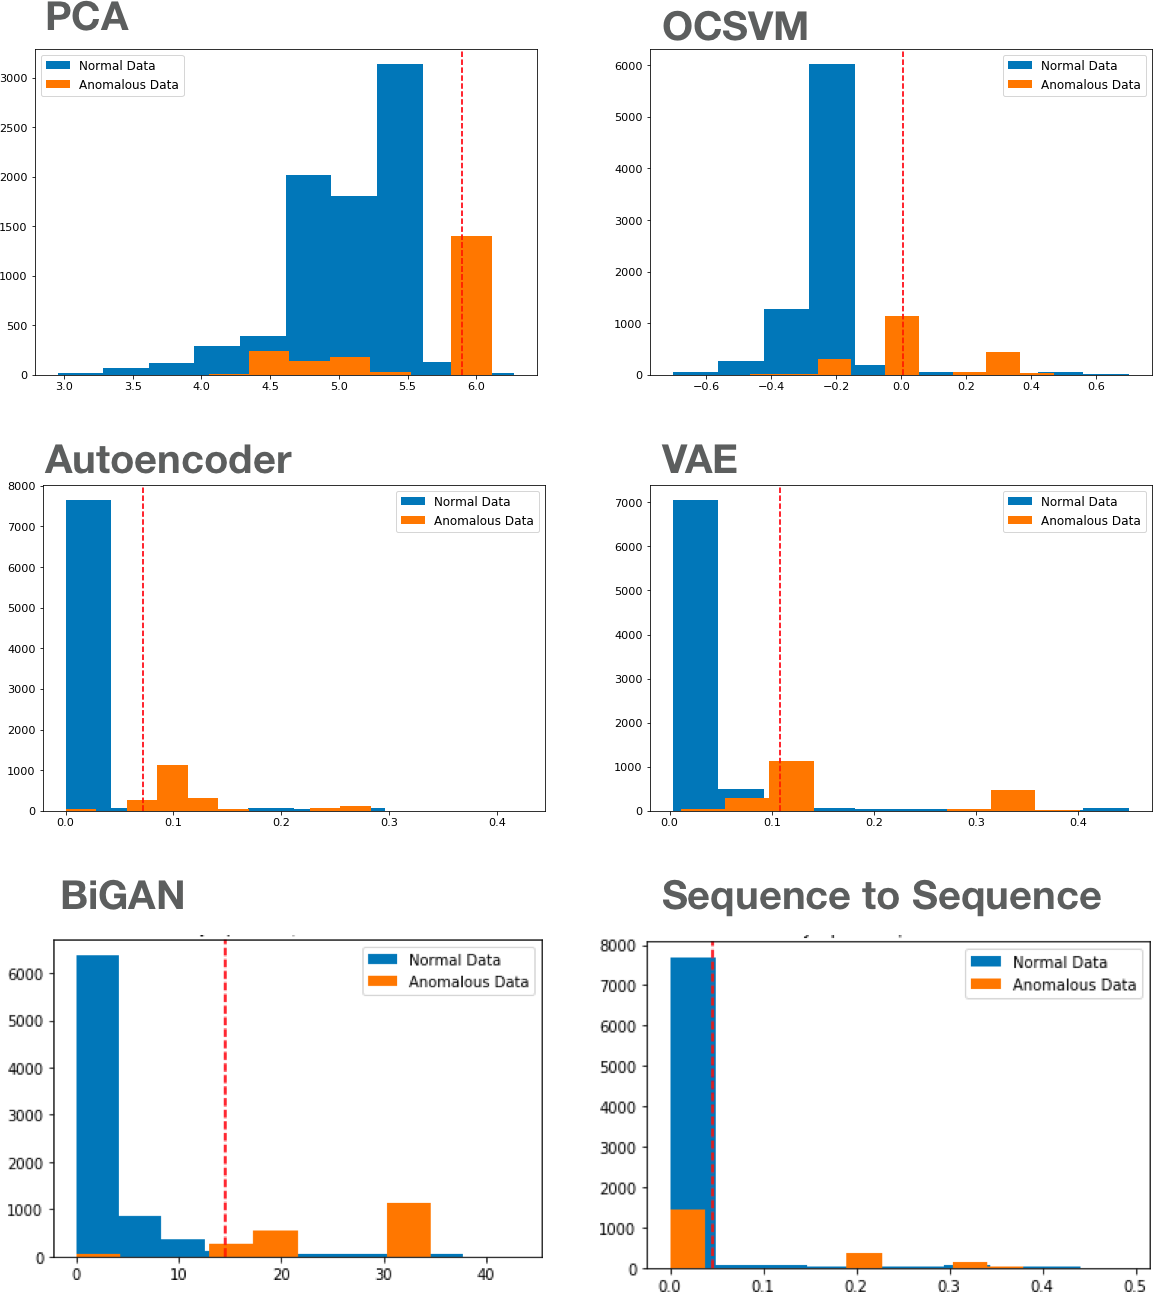
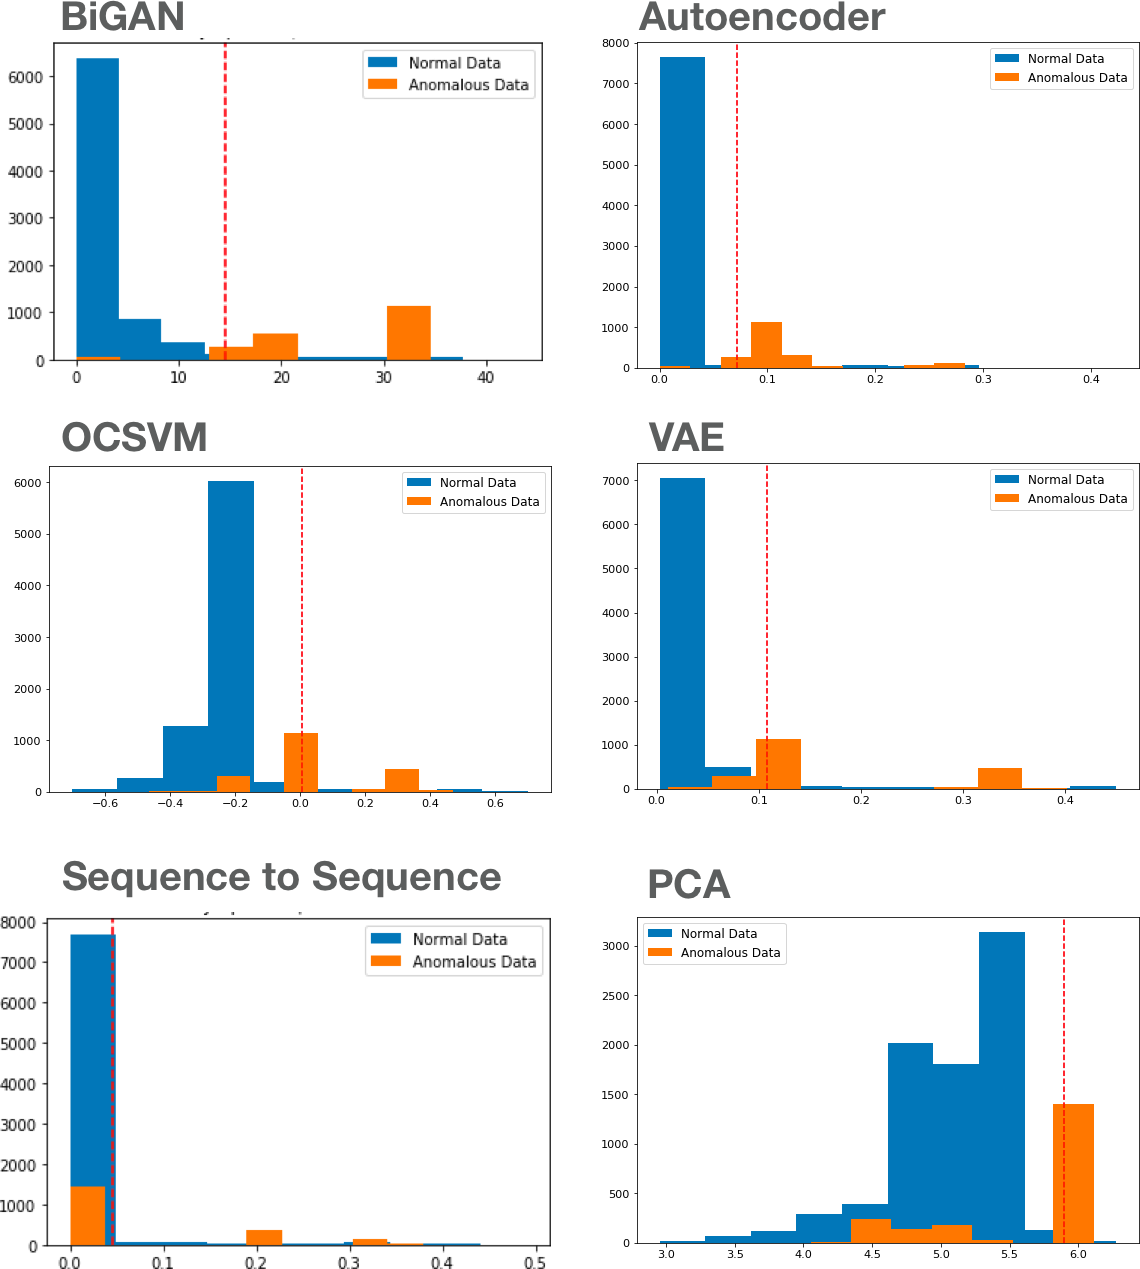
publish: update prototype, and other minor  edits
generated from commit 2eacc22bfdca8bad310e00d08840dd306a171a43

diff --git a/index.html b/index.html
@@ -1390,71 +1390,71 @@ As expected, a linear model like PCA is both fast to train and fast for inferenc
 <th>Method</th>
 <th>ROC AUC</th>
 <th>Accuracy</th>
-<th>f1</th>
-<th>f2</th>
 <th>Precision</th>
 <th>Recall</th>
+<th>f1</th>
+<th>f2</th>
 </tr>
 </thead>
 <tbody>
 <tr>
-<td>bigan</td>
+<td>BiGAN</td>
 <td>0.972</td>
 <td>0.962</td>
-<td>0.911</td>
-<td>0.947</td>
 <td>0.857</td>
 <td>0.973</td>
+<td>0.911</td>
+<td>0.947</td>
 </tr>
 <tr>
-<td>ae</td>
+<td>Autoencoder</td>
 <td>0.963</td>
 <td>0.964</td>
-<td>0.914</td>
-<td>0.945</td>
 <td>0.867</td>
 <td>0.968</td>
+<td>0.914</td>
+<td>0.945</td>
 </tr>
 <tr>
-<td>ocsvm</td>
+<td>OCSVM</td>
 <td>0.957</td>
 <td>0.949</td>
-<td>0.866</td>
-<td>0.844</td>
 <td>0.906</td>
 <td>0.83</td>
+<td>0.866</td>
+<td>0.844</td>
 </tr>
 <tr>
-<td>vae</td>
+<td>VAE</td>
 <td>0.946</td>
 <td>0.93</td>
-<td>0.827</td>
-<td>0.832</td>
 <td>0.819</td>
 <td>0.836</td>
+<td>0.827</td>
+<td>0.832</td>
 </tr>
 <tr>
-<td>seq2seq</td>
-<td>0.945</td>
-<td>0.92</td>
-<td>0.808</td>
-<td>0.825</td>
-<td>0.781</td>
-<td>0.837</td>
+<td>Seq2Seq</td>
+<td>0.919</td>
+<td>0.829</td>
+<td>0.68</td>
+<td>0.271</td>
+<td>0.388</td>
+<td>0.308</td>
 </tr>
 <tr>
-<td>pca</td>
+<td>PCA</td>
 <td>0.771</td>
 <td>0.936</td>
-<td>0.815</td>
-<td>0.741</td>
 <td>0.977</td>
 <td>0.699</td>
+<td>0.815</td>
+<td>0.741</td>
 </tr>
 </tbody>
 </table></div>
 <br/>
-<figure><img src="figures/anomalyscores.png" alt="Histogram for the distribution of anomaly scores assigned to the test data for each model."><figcaption>Histogram for the distribution of anomaly scores assigned to the test data for each model.</figcaption></figure>
+<figure><img src="figures/anomalyscores.png" alt="Histogram for the distribution of anomaly scores assigned to the test data for each model. The red vertical line represents a threshold value that yields the best accuracy."><figcaption>Histogram for the distribution of anomaly scores assigned to the test data for each model. The red vertical line represents a threshold value that yields the best accuracy.</figcaption></figure>
 <p>For each model, we use labeled test data to first select a threshold that yields the best accuracy and then report on metrics such as f1, f2, precision and recall at that threshold. We also report on ROC (area under the curve) to evaluate the overall skill of each model. Given that the dataset we use is not extremely complex (18 features), we see that most models perform relatively well.  Deep models (BiGAN, AE) are more robust (precision, recall, ROC AUC), compared to PCA and OCSVM. The  Sequence-to-sequence model is not particularly competitive, given the data is not temporal. On a more complex dataset such as images, we expect to see (similar to <a href="https://arxiv.org/abs/1605.07717">existing research</a>), more pronounced advantages in using a deep learning model.</p>
 <h3 id="web-application-prototypes">Web Application Prototypes</h3>
 <p>We built two prototypes that demonstrate results and insights from our experiments. The first prototype – is built on on the KDD dataset used in the experiments above and is a visualization of the performance of four approaches to anomaly detection. The second prototype is an interactive explainer that focuses on the autoencoder model and results from applying it to detecting anomalies in ECG data.</p>
